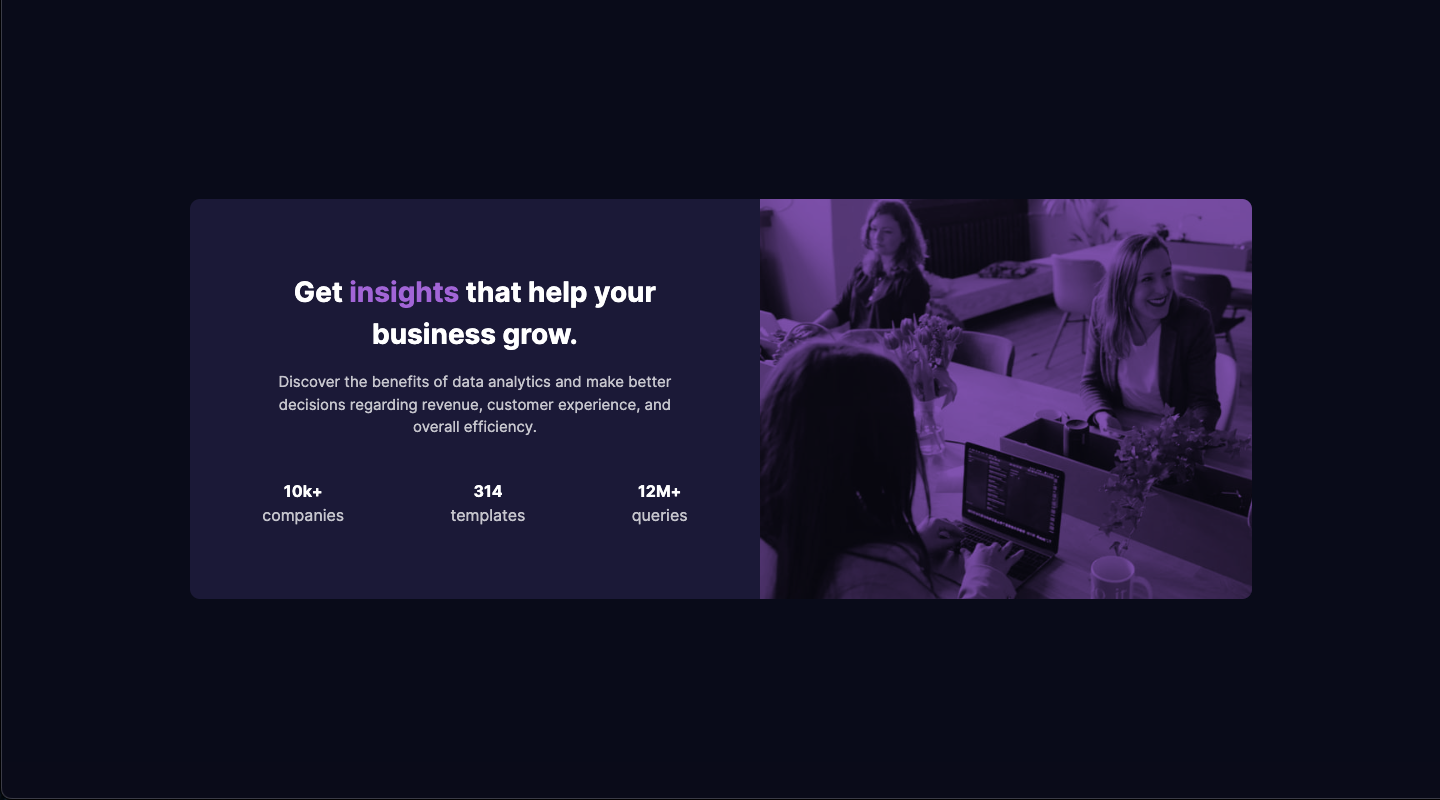
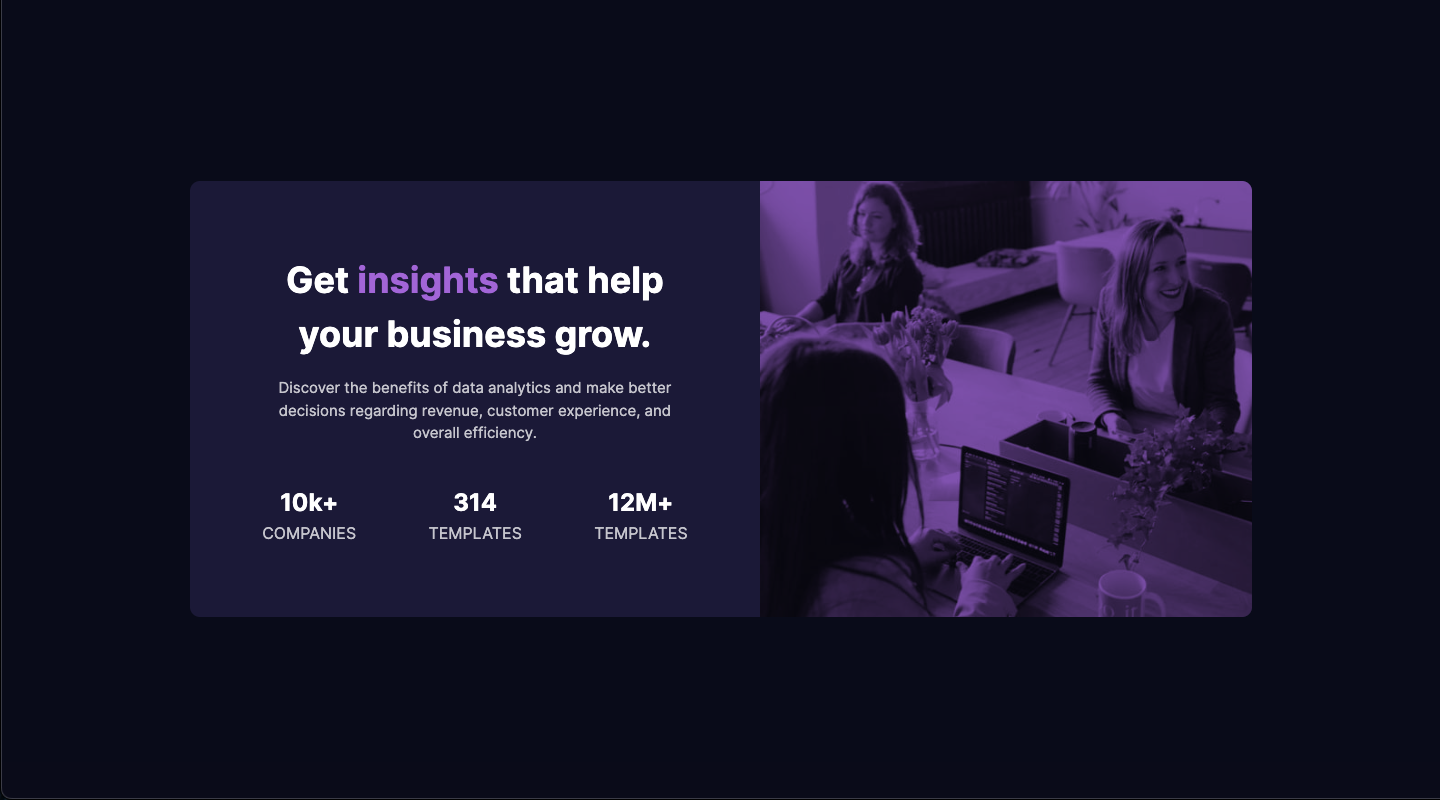
Fix font-size for desktop

diff --git a/index.html b/index.html
@@ -33,9 +33,9 @@
         </p>
         <article>
           <h2 class="sr-only">Stats</h2>
-          <div><strong>10k+</strong><br />companies</div>
-          <div><strong>314</strong><br />templates</div>
-          <div><strong>12M+</strong><br />queries</div>
+          <div><strong>10k+</strong><br /><span>companies</span></div>
+          <div><strong>314</strong><br /><span>templates</span></div>
+          <div><strong>12M+</strong><br /><span>templates</span></div>
         </article>
       </section>
     </main>

diff --git a/styles.css b/styles.css
@@ -58,6 +58,10 @@ article div:nth-child(3) {
   margin-block: 24px;
 }
 
+article span {
+  text-transform: uppercase;
+}
+
 @media (min-width: calc(500rem / 16)) {
   article {
     display: flex;
@@ -77,6 +81,14 @@ article div:nth-child(3) {
   main {
     display: flex;
     flex-direction: row-reverse;
+  }
+
+  h1 {
+    font-size: calc(36rem / 16);
+  }
+
+  strong {
+    font-size: calc(24rem / 16);
   }
 }
 
